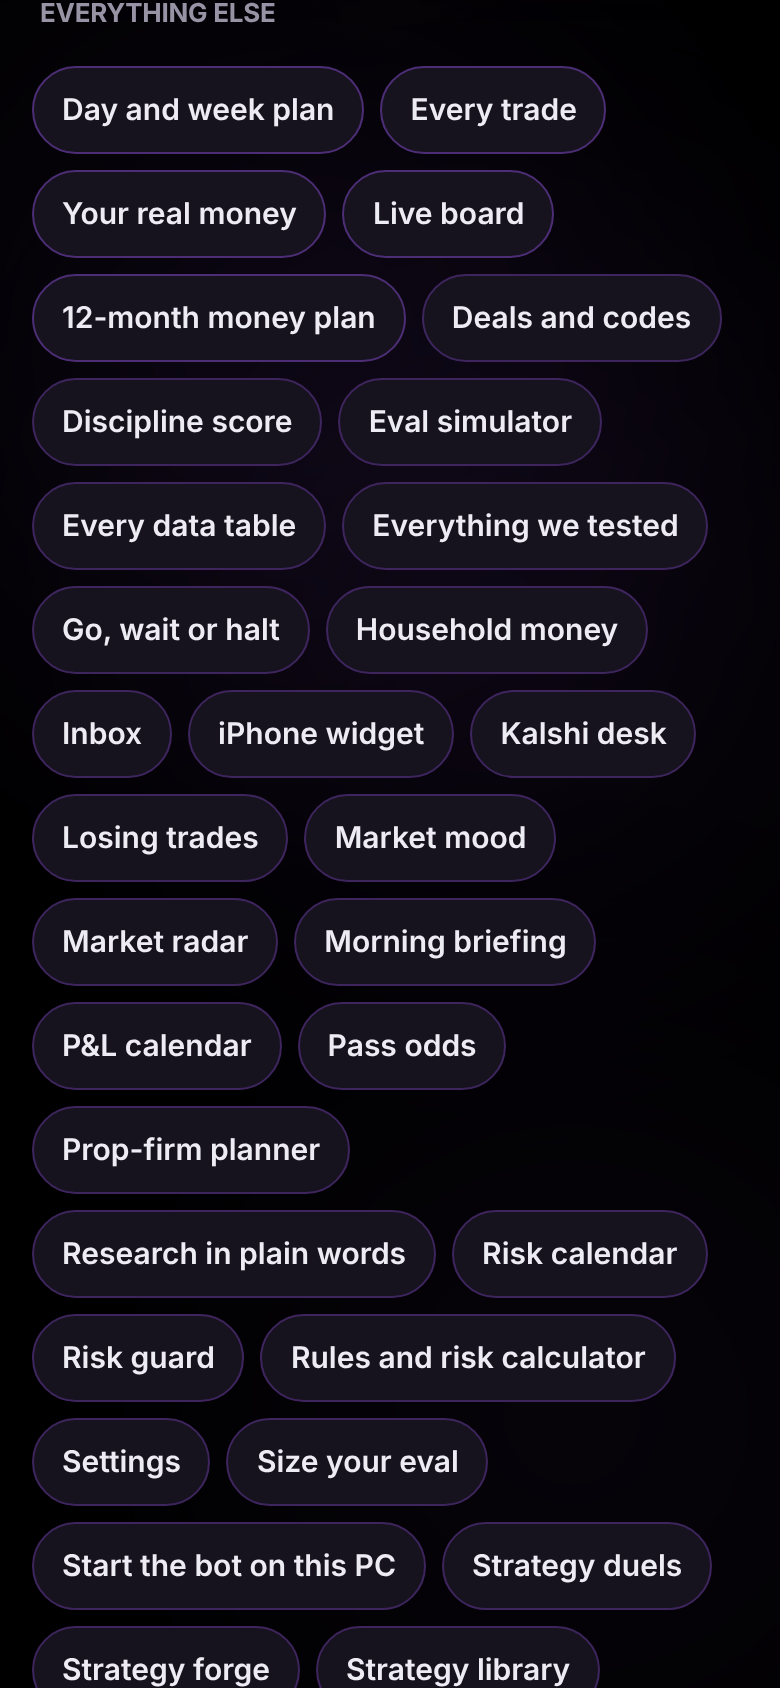
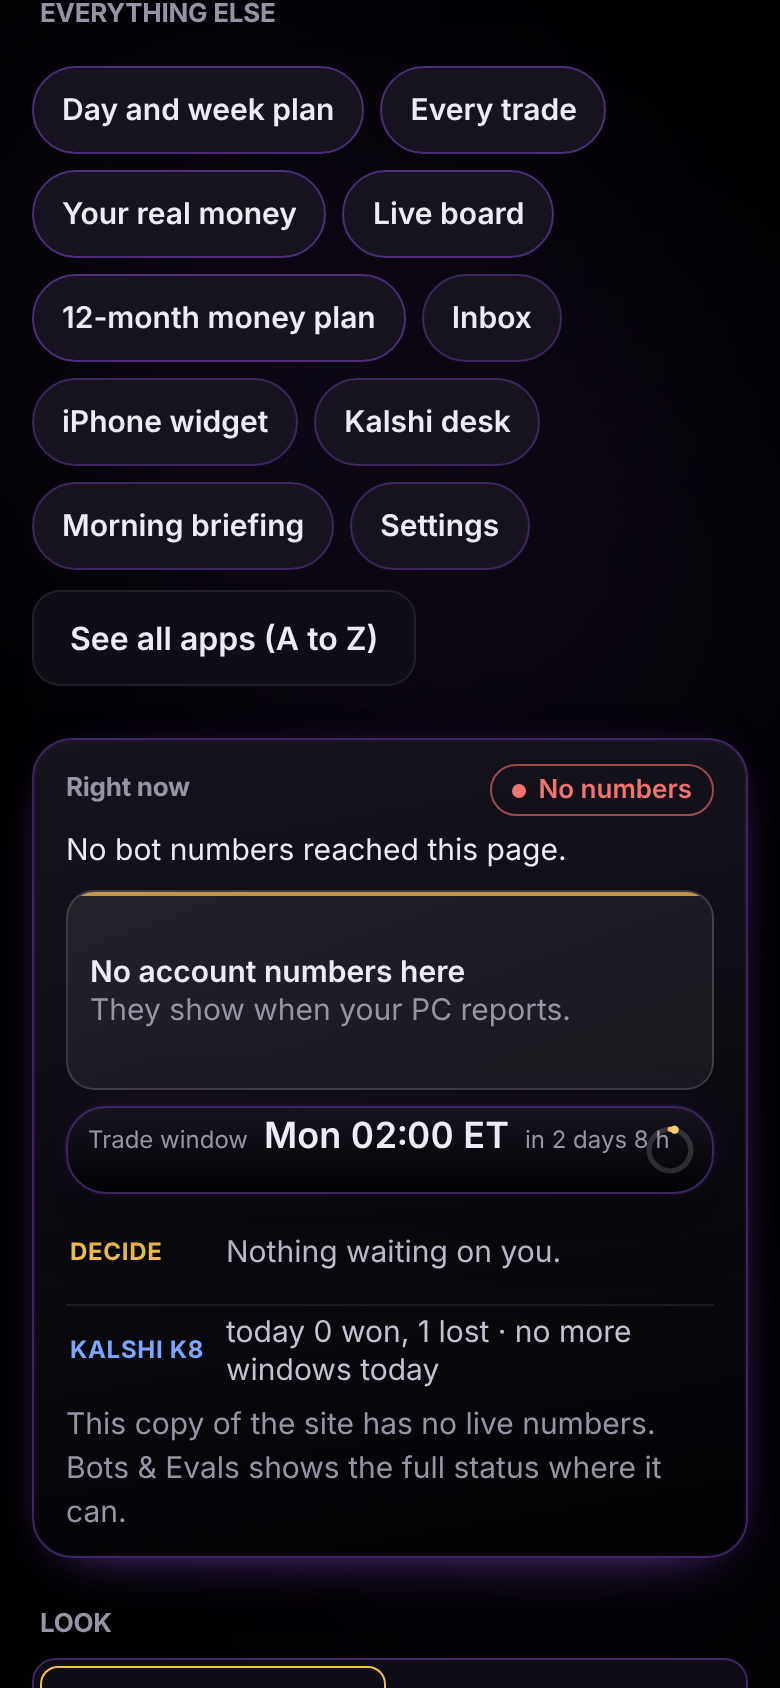
Home: Everything else = the 10 he uses + 'See all apps (A to Z)'; Strategy forge off the Home (gate.js g20, arenas.js v3)
Claude-Session: https://claude.ai/code/session_01EwJ4kRWGG8Cbp163JuaCvt

Changed region(s): [[0.0308, 0.3697, 0.9538, 1.0], [0.0923, 0.1848, 0.8923, 0.3389], [0.9538, 0.4621, 0.9846, 0.8934]]

diff --git a/tools/web_public/gate/index.html b/tools/web_public/gate/index.html
@@ -59,7 +59,7 @@
     if (!again) localStorage.setItem('oly.homefx.day', dk);
   } } catch (e) { /* private mode: plain */ }
   var i = d.createElement('link'); i.rel = 'icon'; i.href = b + 'gate/icon.svg'; h.appendChild(i);
-  ['olympus/themes.js?v=o9', 'pc_feed.js?v=n6', 'olympus/gate-catalog.js?v=nv10', 'olympus/hub-status.js?v=h3', 'age.js?v=1', 'business/payoutcoach.js?v=2', 'gate/gate.js?v=g19', 'olympus/home-fx.js?v=x2', 'olympus/a11y.js'].forEach(function (src) { var s = d.createElement('script'); s.src = b + src; s.async = false; h.appendChild(s); });
+  ['olympus/themes.js?v=o9', 'pc_feed.js?v=n6', 'olympus/gate-catalog.js?v=nv10', 'olympus/hub-status.js?v=h3', 'age.js?v=1', 'business/payoutcoach.js?v=2', 'gate/gate.js?v=g20', 'olympus/home-fx.js?v=x2', 'olympus/a11y.js'].forEach(function (src) { var s = d.createElement('script'); s.src = b + src; s.async = false; h.appendChild(s); });
 })();</script>
 <script>(function () {   /* the Launch card + first-day checklist (gate/launch.js, docs/LAUNCH_DAY.md): only when the PC serves the site (/site/) */
   if (!/^\/site\//.test(location.pathname || '')) return;
@@ -99,13 +99,13 @@
     </nav>
   </section>
 
-  <!-- EVERYTHING ELSE: one area for the smaller apps (Planner first, then Trading, Ledger, Board, Hera, the rest A to Z; retired apps hidden) -->
+  <!-- EVERYTHING ELSE: the 10 smaller apps he uses (lead 2026-11-20), then one button to the A to Z sheet (every live app) -->
   <section class="g-else" id="elseSec" aria-labelledby="elseH">
     <h2 class="g-h2" id="elseH">Everything else</h2>
     <nav class="g-elist" id="elseList" aria-labelledby="elseH">
-      <a class="g-eapp" data-to="planner/index.html" href="planner/index.html">My day</a><a class="g-eapp" data-to="trading/index.html" href="trading/index.html">Trades</a><a class="g-eapp" data-to="ledger/index.html" href="ledger/index.html">Real money</a><a class="g-eapp" data-to="board/index.html" href="board/index.html">Board</a><a class="g-eapp" data-to="hera/index.html" href="hera/index.html">Payout plan</a>
+      <a class="g-eapp" data-to="planner/index.html" href="planner/index.html" data-app="planner">Day and week plan</a><a class="g-eapp" data-to="trading/index.html" href="trading/index.html" data-app="trading">Every trade</a><a class="g-eapp" data-to="ledger/index.html" href="ledger/index.html" data-app="ledger">Your real money</a><a class="g-eapp" data-to="board/index.html" href="board/index.html" data-app="board">Live board</a><a class="g-eapp" data-to="hera/index.html" href="hera/index.html" data-app="hera">12-month money plan</a><a class="g-eapp" data-to="inbox/index.html" href="inbox/index.html" data-app="inbox">Inbox</a><a class="g-eapp" data-to="widget/index.html" href="widget/index.html" data-app="widget">iPhone widget</a><a class="g-eapp" data-to="dionysus/index.html" href="dionysus/index.html" data-app="dionysus">Kalshi desk</a><a class="g-eapp" data-to="helios/index.html" href="helios/index.html" data-app="helios">Morning briefing</a><a class="g-eapp" data-to="settings/index.html" href="settings/index.html" data-app="settings">Settings</a>
     </nav>
-    <a class="g-btn g-elsemore" data-to="gate/index.html#az" href="gate/index.html#az">All apps A to Z</a>
+    <a class="g-btn g-elsemore" id="elseAll" data-to="gate/index.html#az" href="gate/index.html#az">See all apps (A to Z)</a>
   </section>
 
 <section class="g-card g-now" id="now" aria-labelledby="nowH" data-state="loading">
@@ -192,7 +192,7 @@
 <script>(function () { /* NAV FX (2026-11-20, owner: "3D, effects, no gold"): glass icons, aurora, tilt, roll-ups; loaded after the first paint */
   var b = window.GATE_BASE || '', d = document;
   var s = d.createElement('script'); s.src = b + 'hub/navfx.js?v=2'; s.defer = true; d.body.appendChild(s);
-  var ar = d.createElement('script'); ar.src = b + 'gate/arenas.js?v=2'; ar.defer = true; d.body.appendChild(ar);   /* the 6 arenas' live lines + Everything else */
+  var ar = d.createElement('script'); ar.src = b + 'gate/arenas.js?v=3'; ar.defer = true; d.body.appendChild(ar);   /* the 6 arenas' live lines + Everything else */
   var dl = d.createElement('link'); dl.rel = 'stylesheet'; dl.href = b + 'olympus/dashfx.css?v=d1'; d.head.appendChild(dl);
   var dx = d.createElement('script'); dx.src = b + 'olympus/dashfx.js?v=d1'; dx.defer = true; d.body.appendChild(dx);   /* DESIGN's glass on the arenas */
 })();</script>

diff --git a/tools/web_public/gate/arenas.js b/tools/web_public/gate/arenas.js
@@ -8,15 +8,15 @@
  *       Business  the first payout goal: "$X of $2,100" (MFFU funded starts at $0)     (GATE.state.N.cards, the funded card's to-payout)
  *       Jarvis    the last brief line                                                  (nq/brief.json headline)
  *       Cities    a short tagline (static)
- *   - fills "Everything else" from the catalog (olympus/gate-catalog.js): every live app but the 6 and the retired ones, Planner first,
- *     then Trading, Ledger, Board, Hera, then the rest A to Z by its plain name.
+ *   - fills "Everything else" from the catalog (olympus/gate-catalog.js): the 10 smaller apps he uses (FIRST, retired ones skipped);
+ *     every other app sits behind 'See all apps (A to Z)' (the gate.js sheet).
  * Text only through textContent. No storage written. window.GATE_ARENAS (tests). */
 (function () {
   'use strict';
   var d = document, w = window, base = w.GATE_BASE || '';
   if (w.GATE_ARENAS) return;
   var SIX = ['cities', 'kalshi', 'nq', 'jarvis', 'agency', 'business'];
-  var FIRST = ['planner', 'trading', 'ledger', 'board', 'hera'];
+  var FIRST = ['planner', 'trading', 'ledger', 'board', 'hera', 'inbox', 'widget', 'dionysus', 'helios', 'settings'];   // lead 2026-11-20: only these 10, then 'See all apps (A to Z)'
   var PAYOUT_GOAL = 2100;      // MFFU Builder 25K funded: the first (max) payout request at $2,100 profit (CLAUDE.md, docs/ACCOUNT_RULES.md)
   function $(id) { return d.getElementById(id); }
   function num(x) { var n = typeof x === 'number' ? x : parseFloat(x); return isFinite(n) ? n : null; }
@@ -58,15 +58,14 @@
     return out;
   }
 
-  /** Everything else: every live, non-retired catalog app but the 6, Planner / Trading / Ledger / Board / Hera first, then A to Z */
+  /** Everything else: the 10 of FIRST that are live (not retired), in that order */
   function others(C) {
     if (!C || !C.apps) return [];
     var ret = C.retired || function () { return false; }, seen = {};
     var live = C.apps.filter(function (a) { return a && a.id && SIX.indexOf(a.id) < 0 && !ret(a.id) && a.section !== 'workshop' && a.id !== 'today' && !a.fold; });
     var first = [];
     FIRST.forEach(function (id) { live.forEach(function (a) { if (a.id === id && !seen[id]) { first.push(a); seen[id] = 1; } }); });
-    var rest = live.filter(function (a) { return !seen[a.id]; }).sort(function (x, y) { var a = String(x.label).toLowerCase(), b = String(y.label).toLowerCase(); return a < b ? -1 : a > b ? 1 : 0; });
-    return first.concat(rest);
+    return first;      // the rest: the 'See all apps (A to Z)' button
   }
 
   var elseDone = false;

diff --git a/tools/web_public/gate/gate.js b/tools/web_public/gate/gate.js
@@ -224,7 +224,8 @@
   }
   /* olympus2 2026-11-20 (owner): retired apps never show on the Home (search, A to Z, recent, pins); their pages still open from an old link */
   var RETIRED = { delphi: 1, stoa: 1, hestia: 1, plutus: 1, argo: 1, mint: 1, harmonia: 1, kairos: 1, chronos: 1, lyceum: 1, polis: 1, atlascity: 1, gallery: 1, mintcity: 1, nike: 1,
-    arena: 1, mind: 1, symposium: 1, herald: 1, ergasterion: 1, observatory: 1, pheme: 1, bridge: 1, arbiter: 1, hermes: 1, hephaestus: 1 };
+    arena: 1, mind: 1, symposium: 1, herald: 1, ergasterion: 1, observatory: 1, pheme: 1, bridge: 1, arbiter: 1, hermes: 1, hephaestus: 1,
+    prometheus: 1 };   // lead 2026-11-20 (owner 12:04: "the forges and stuff we don't need"): the Strategy forge off the Home too; its page stays
   function live(a) { return !!a && !RETIRED[a.id]; }
   function drawResults() {
     var box = $('results'), q = ($('q').value || '').replace(/^\s+|\s+$/g, ''); clear(box);

diff --git a/tests/test_nav_pages.py b/tests/test_nav_pages.py
@@ -100,8 +100,13 @@ def part_arenas():
     check("o. Home: the arenas, then ONE 'Everything else' area (the old app grid, doors and hubs hidden: still in the page for search / A to Z)",
           g.index('id="arenas"') < g.index('id="elseSec"') and 'id="elseH">Everything else</h2>' in g and "g-quick" not in shown and "g-four" not in shown and "g-hubs" not in shown
           and g.index('id="q"') < g.index('id="arenas"'), shown)
-    check("o. Business arena links the Planner at its top; Everything else starts with Planner, Trading, Ledger, Board, Hera",
-          'class="g-asub" data-to="planner/index.html"' in g and re.findall(r'<a class="g-eapp" data-to="([a-z]+)/', g)[:5] == ["planner", "trading", "ledger", "board", "hera"])
+    TEN = ["planner", "trading", "ledger", "board", "hera", "inbox", "widget", "dionysus", "helios", "settings"]
+    check("o. Business arena links the Planner at its top; Everything else = the 10 he uses (Planner ... Settings), then one 'See all apps (A to Z)' button",
+          'class="g-asub" data-to="planner/index.html"' in g and re.findall(r'<a class="g-eapp" data-to="([a-z]+)/', g) == TEN
+          and 'id="elseAll" data-to="gate/index.html#az" href="gate/index.html#az">See all apps (A to Z)</a>' in g)
+    gj = open(os.path.join(WEB, "gate", "gate.js"), encoding="utf-8").read()
+    check("o. the Strategy forge (prometheus) is off the Home: in gate.js's Home-only hidden list (search, A to Z, pins); its page stays",
+          re.search(r"var RETIRED = \{[^}]*\bprometheus: 1", gj) is not None and os.path.exists(os.path.join(WEB, "prometheus", "index.html")))
     d = open(os.path.join(WEB, "olympus", "doors.js"), encoding="utf-8").read()
     check("o. doors.js ARENAS = the same 6 in the same order (the launcher and the Doors page read it); web_next copy byte-identical",
           re.findall(r"\{ id: '([a-z]+)', label: '[^']+', href: '[^']+', line:", d) == ["cities", "kalshi", "nq", "jarvis", "agency", "business"]
@@ -212,9 +217,10 @@ def part_b(shots: bool):
                         pg.wait_for_function("window.GATE_ARENAS && GATE_ARENAS.ready", timeout=20000)
                         a = pg.evaluate("""(() => { const t = [...document.querySelectorAll('.g-arena')]; const vh = innerHeight;
                           return { n: t.length, lines: t.map((x) => (x.querySelector('.g-aline') || {}).textContent || ''), onfirst: t.every((x) => x.getBoundingClientRect().bottom <= vh + 1),
-                                   elseN: document.querySelectorAll('#elseList .g-eapp').length, first: (document.querySelector('#elseList .g-eapp') || {}).textContent }; })()""")
-                        check(f"o. Home at 390 x 844: the 6 arenas each with a live line, all 6 on the first screen; Everything else holds {a['elseN']} apps, Planner first",
-                              a["n"] == 6 and all(a["lines"]) and a["onfirst"] and a["elseN"] >= 20 and a["first"] == "Day and week plan", a)
+                                   elseN: document.querySelectorAll('#elseList .g-eapp').length, first: (document.querySelector('#elseList .g-eapp') || {}).textContent,
+                                   forge: [...document.querySelectorAll('a')].some((x) => (x.getAttribute('href') || '').indexOf('prometheus/') >= 0) }; })()""")
+                        check(f"o. Home at 390 x 844: the 6 arenas each with a live line, all 6 on the first screen; Everything else holds {a['elseN']} apps (10), Planner first, no Strategy forge link anywhere on Home",
+                              a["n"] == 6 and all(a["lines"]) and a["onfirst"] and a["elseN"] == 10 and a["first"] == "Day and week plan" and not a["forge"], a)
                     check(f"f. fx {url} [{'reduced motion' if still else 'motion'}]: Olympus Night (black), the aurora {'still' if still else 'moving'}, tilt {'off' if still else 'on'}, CLS {r['cls']:.3f} < 0.05, the real numbers final, no error", ok, (r, errs[:2]))
                     pg.close()
                 ctx.close()

diff --git a/tests/test_gate_page.py b/tests/test_gate_page.py
@@ -71,7 +71,7 @@ def test_static():
           and html.count("<h1") == 1 and 'role="status"' in html and 'aria-live="polite"' in html and 'role="dialog"' not in html)
     check("a. one base-path line: gate/ -> '../', the site root (olympus-live.html) -> ''; agora.css + gate.css, then themes, the catalog, hub-status and gate.js load from GATE_BASE, in order (async = false)",
           r"/\/gate\/(index\.html)?$/.test(p) ? '../' : ''" in html and "window.GATE_BASE = b" in html and "b + 'gate/gate.css?v=g22'" in html and "b + 'olympus/agora.css" in html
-          and "['olympus/themes.js?v=o9', 'pc_feed.js?v=n6', 'olympus/gate-catalog.js?v=nv10', 'olympus/hub-status.js?v=h3', 'age.js?v=1', 'business/payoutcoach.js?v=2', 'gate/gate.js?v=g19', 'olympus/home-fx.js?v=x2', 'olympus/a11y.js']" in html and "s.async = false" in html)
+          and "['olympus/themes.js?v=o9', 'pc_feed.js?v=n6', 'olympus/gate-catalog.js?v=nv10', 'olympus/hub-status.js?v=h3', 'age.js?v=1', 'business/payoutcoach.js?v=2', 'gate/gate.js?v=g20', 'olympus/home-fx.js?v=x2', 'olympus/a11y.js']" in html and "s.async = false" in html)
     tiles = re.findall(r'class="g-hub[^"]*" data-hub="(\w+)" data-to="hub/index.html\?h=(\w+)"', html)
     check("a. the hub tiles are plain links in the page (they work even if gate.js fails), in the owner's order (night A 2026-11-16): Bots & Evals (wide) and My Money (wide) first, Kalshi and Worlds near the end, Settings & Help last",
           [t[0] for t in tiles] == HUBS and all(a == b for a, b in tiles) and 'class="g-hub g-wide" data-hub="bots"' in html and 'class="g-hub g-wide" data-hub="money"' in html and html.count('class="g-hline"') == len(HUBS))
@@ -209,7 +209,7 @@ def nav_checks(p, origin):
                     " first: (document.querySelector('#azList a.g-row') || {}).dataset, h: Math.round(document.querySelector('#azList a.g-row').getBoundingClientRect().height) })")
     RET = {"datacity", "kalshicity", "delphi", "stoa", "hestia", "plutus", "argo", "mint", "harmonia", "kairos", "chronos", "lyceum", "polis", "atlascity", "gallery", "mintcity", "nike",
            "arena", "mind", "symposium", "herald", "ergasterion", "observatory", "pheme", "bridge", "arbiter", "hermes", "hephaestus"}
-    n_apps = len([a for a in cat_apps() if a["id"] not in RET])   # every catalog app but the retired ones (olympus2), counted from the catalog
+    n_apps = len([a for a in cat_apps() if a["id"] not in RET and a["id"] != "prometheus"])   # every catalog app but the retired ones and the Strategy forge (off the Home, lead 2026-11-20)
     check(f"c. the A-Z button opens All apps A to Z: every app ({n_apps}) in big rows (>= 56 px) under a letter each, the labs at the end under Workshop",
           az["open"] and az["rows"] == n_apps and az["letters"][0] in ("1", "#", "A") and az["letters"][-1] == "Workshop" and az["h"] >= 56, az)
     t = AK.taps(p)

diff --git a/research/handoff/2026-11-20/arenas6/REPORT.md b/research/handoff/2026-11-20/arenas6/REPORT.md
@@ -13,3 +13,8 @@ Owner 17:00 ET: "organize the dashboard, I want like 6 arenas, that's it, then a
 | Tests | gate_page, apps_list, nav_pages pins updated; new nav_pages check "Home: exactly 6 arenas in this order, plus one Everything else area" (static + 390x844 browser). test_warp a./b. fail the same with my changes stashed (from the merged Zenith page): not this branch. |
 
 Shots: `home-top-*`, `home-arenas-*`, `home-else-*` (dark + light, 390x844 @2x) in this folder.
+
+## Polish (lead, 18:30 ET)
+- Everything else = 10 apps only: Planner, Every trade, Your real money, Live board, 12-month money plan, Inbox, iPhone widget,
+  Kalshi desk, Morning briefing, Settings; then one "See all apps (A to Z)" button (the existing A to Z sheet).
+- Strategy forge (prometheus) hidden from the Home: search, A to Z, pins (gate.js Home-only list). Its page is untouched.
